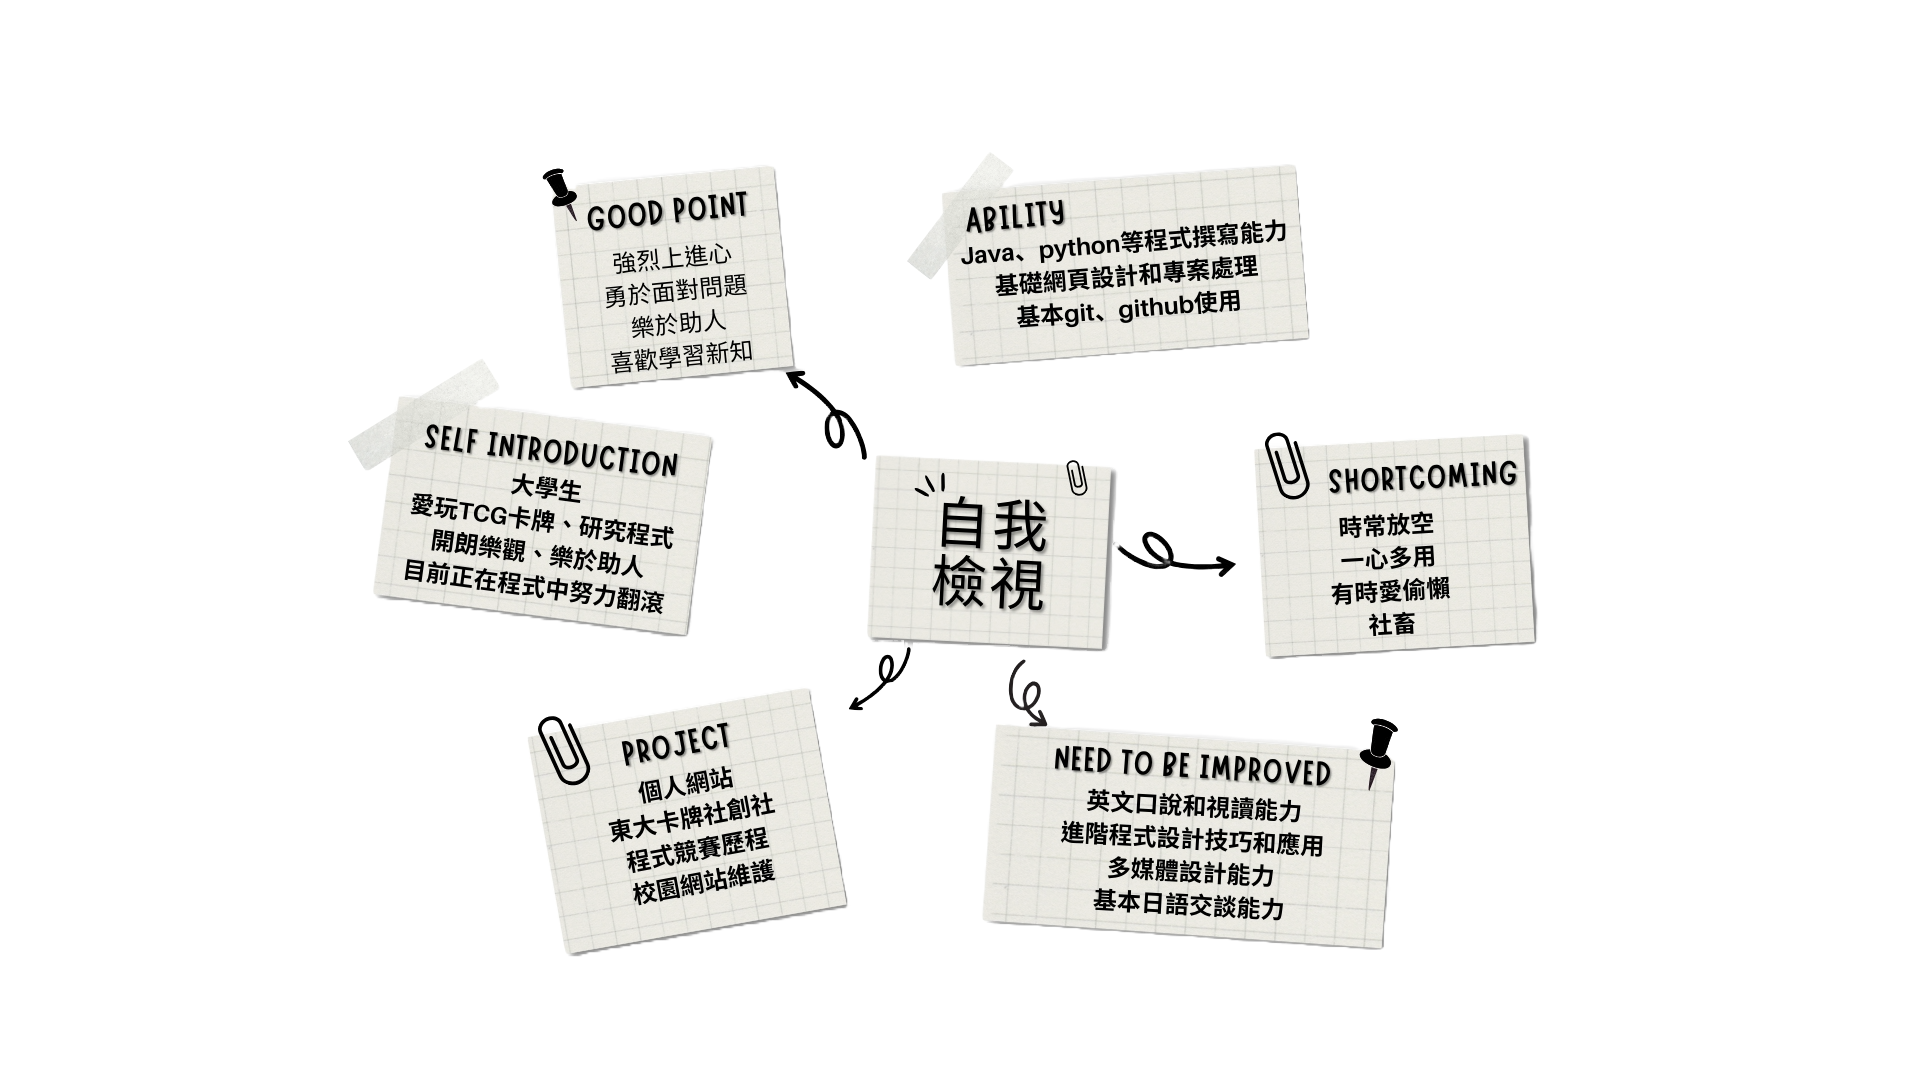
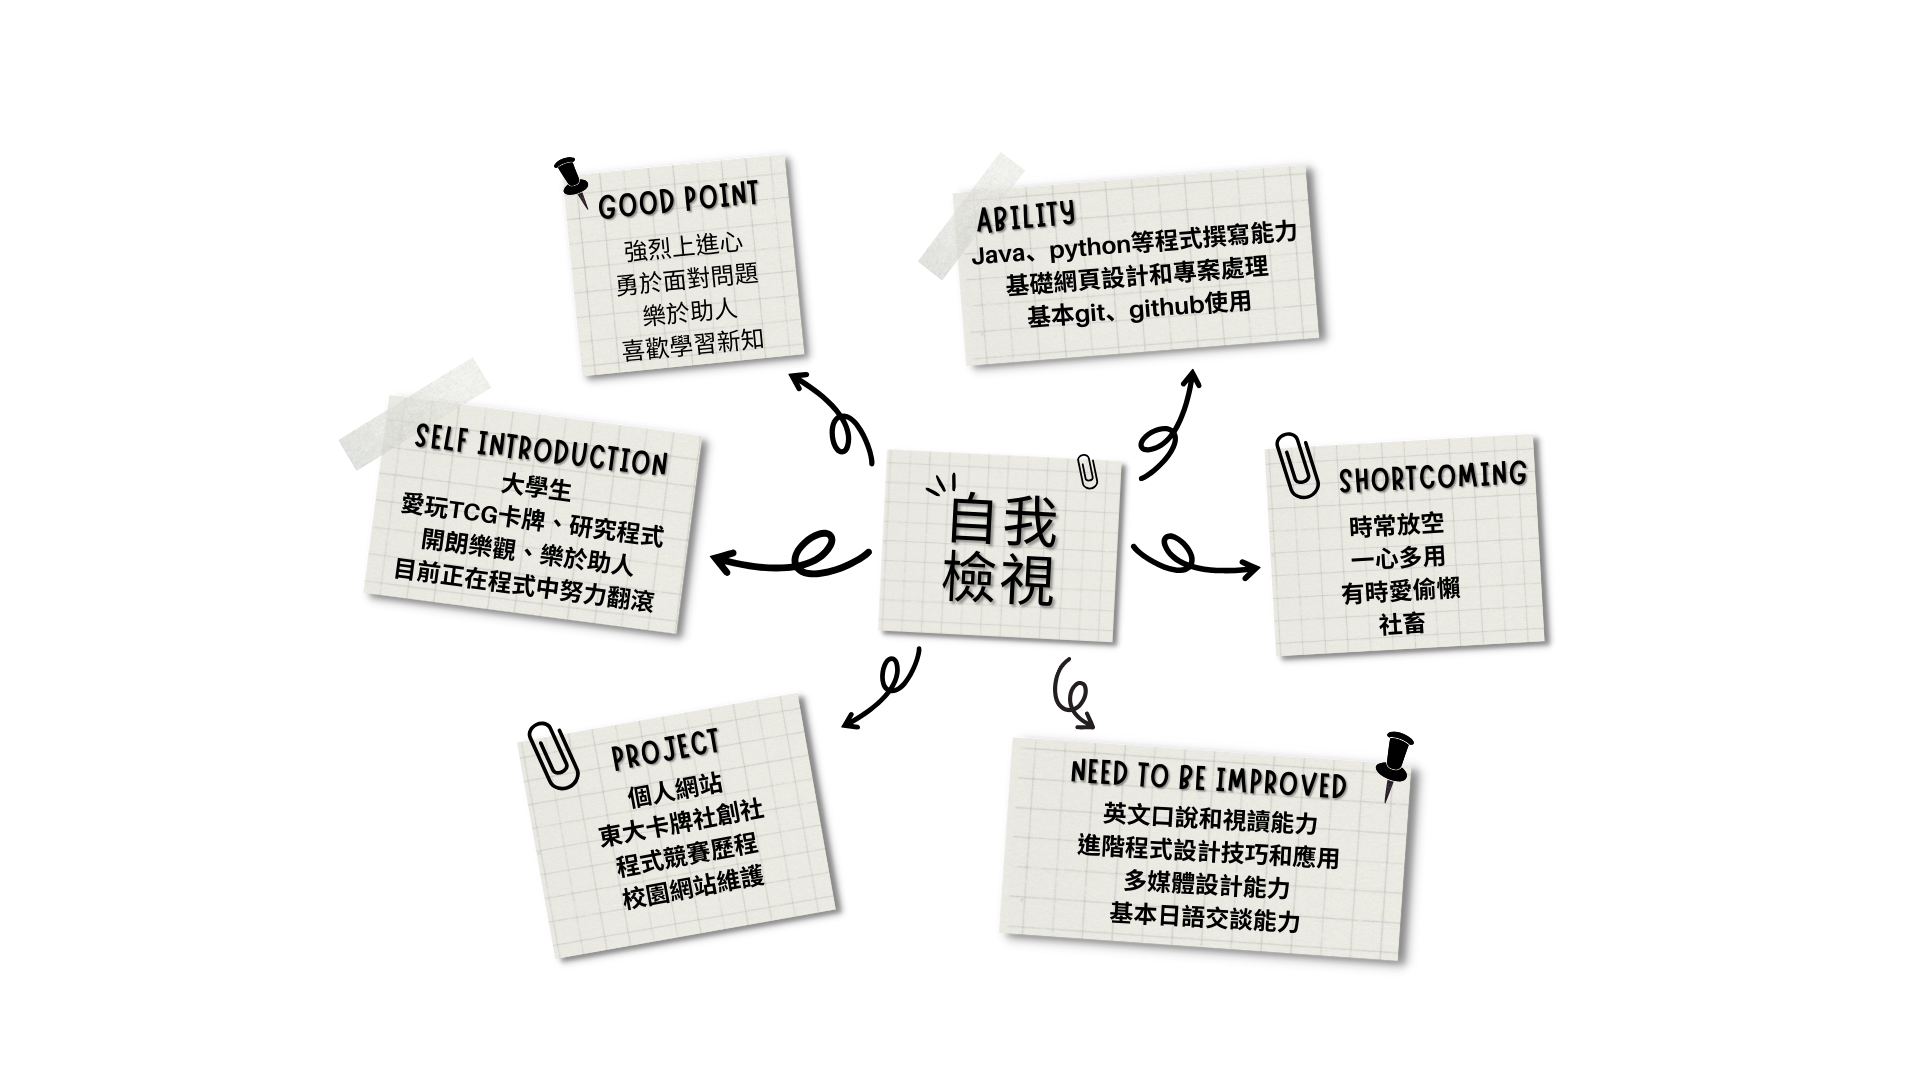
[upload] container self end

diff --git a/temporary_person_web/main_page/main_page.html b/temporary_person_web/main_page/main_page.html
@@ -52,8 +52,9 @@
                 <h2 class="inText">FB:<a class="inText" href="https://www.facebook.com/fergus4506">楊敦傑</a></h2>
                 <h2 class="inText">IG:<a class="inText" href="https://www.instagram.com/fergus5211">fergus5211</a></h2>
                 <h2 class="inText">GitHub:<a class="inText" href="https://github.com/Fergus4506">Yang Dunjie</a></h2>
-                <h2 class="inText">以下還會有一個自我檢測的樹狀圖.....(施工中)</h2>
-                <img src="../image_for_web/self_intr.png" style="width: 100%;position: relative;">
+                <h2 class="inText">-----------------------------------------------------------------------</h2>
+                <h2 class="inText" >自我檢測和自我簡介表</h2>
+                <img src="../image_for_web/self_intr.png" style="width: 100%;position: relative;margin-top: -50px;">
                 <h2 class="inText">偷偷說一下，我也是個熱愛遊玩集換式卡片遊戲的人，有興趣我們也可以來交流一下。</h2>
             </div>
             
